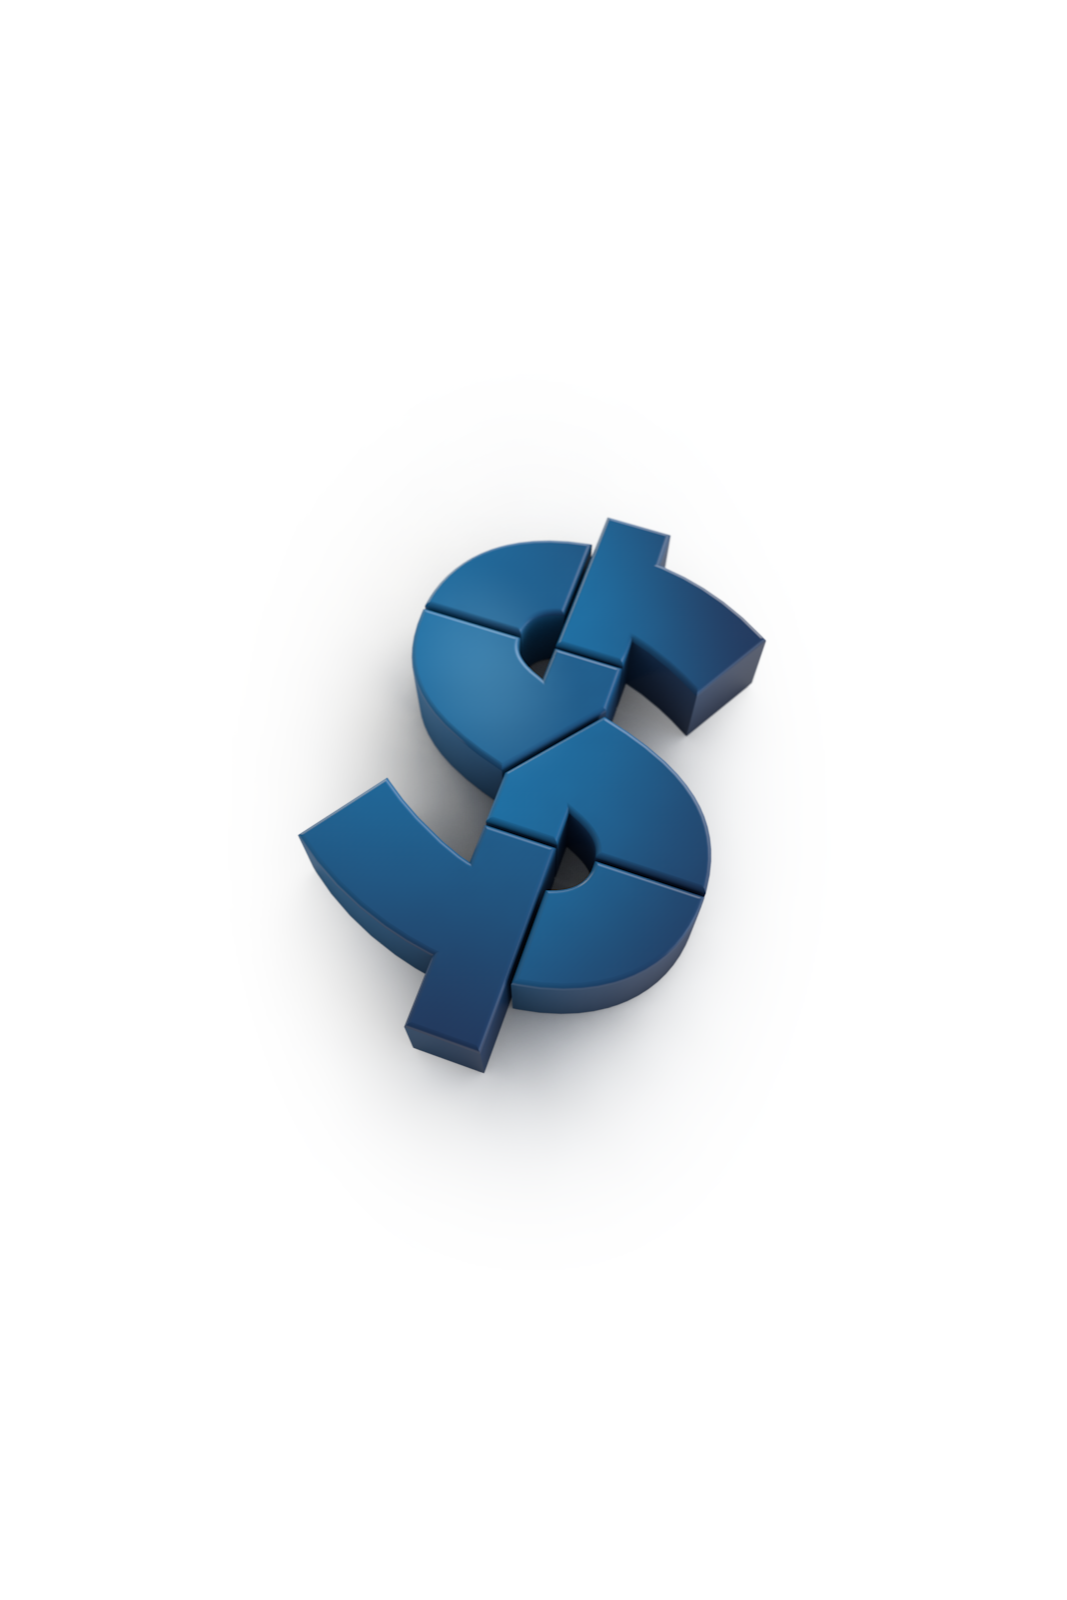
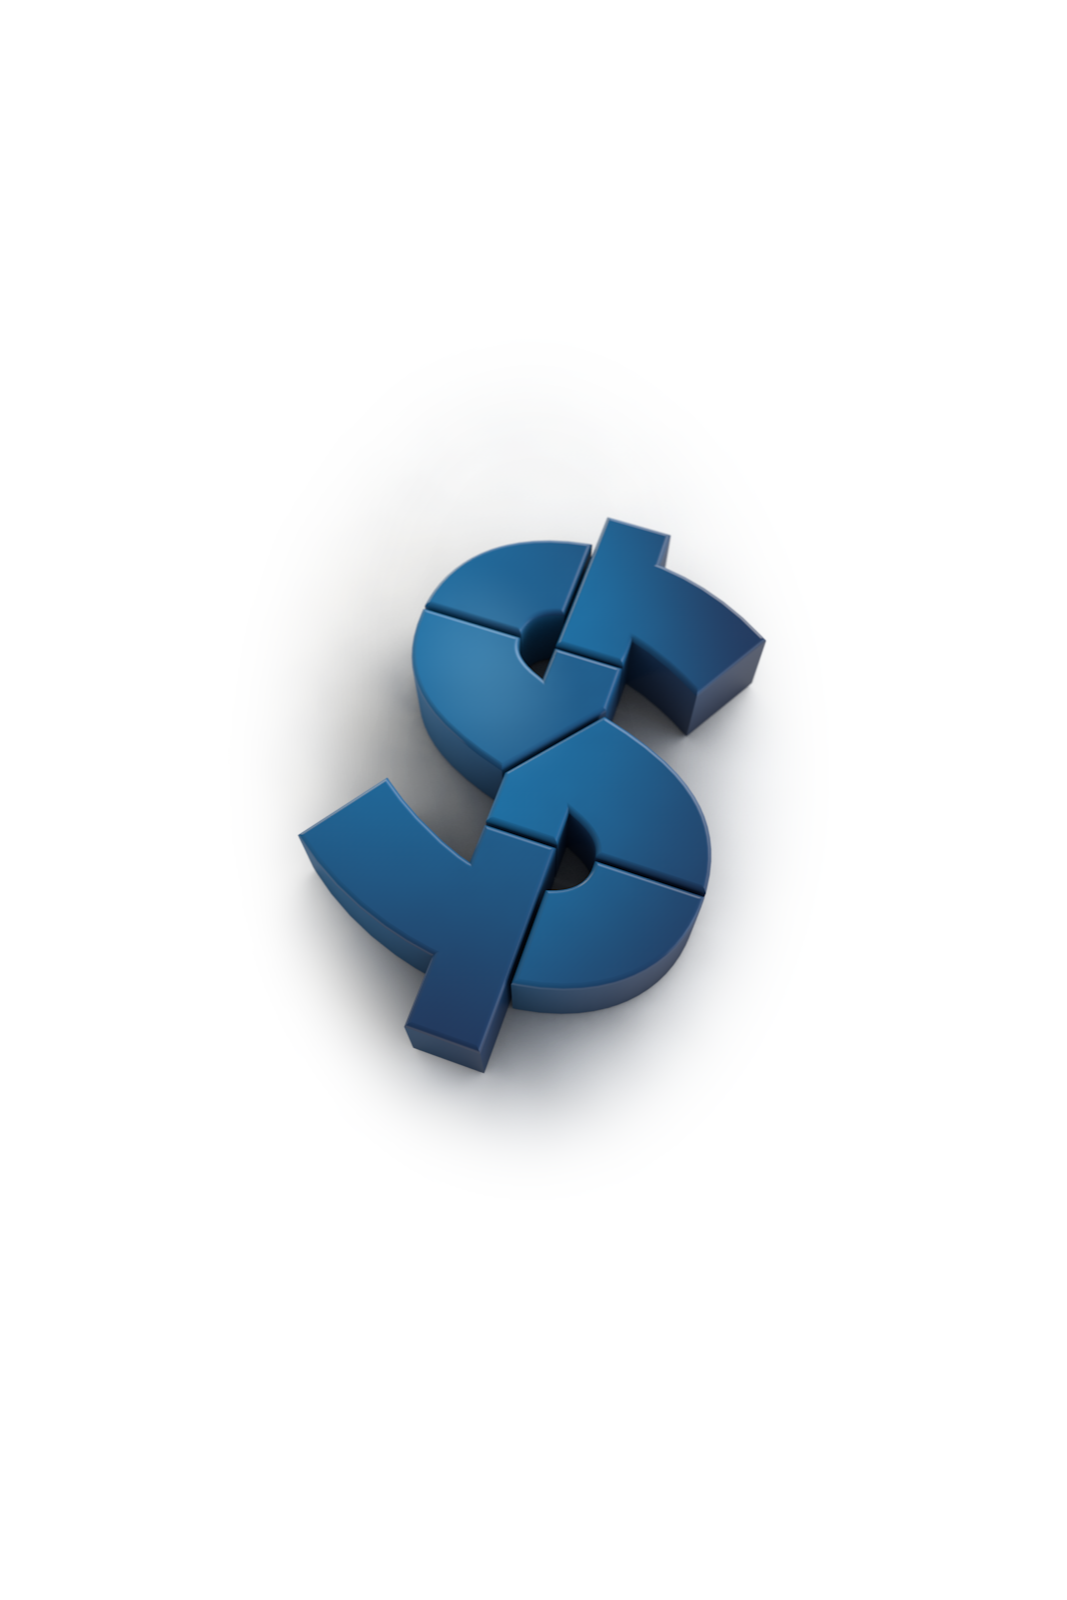
Update background image and base background position

Changed region(s): [[0.2784, 0.4062, 0.6495, 0.6875], [0.5567, 0.4062, 0.7113, 0.5938]]

diff --git a/assets/js/main.js b/assets/js/main.js
@@ -7,6 +7,7 @@ var HelloYesDollar = (function ($) {
         classes: {
             active:   'HYD__active',
             back:     'HYD__back',
+            base:     'HYD__base',
             future:   'HYD__future',
             hidden:   'HYD__hidden',
             layer:    'HYD__layer',
@@ -41,12 +42,14 @@ var HelloYesDollar = (function ($) {
         init: false,
         large: {
             size: 1067,
+            baseX: -233,
             x: -267,
             y: -400,
             duration: 1500
         },
         small: {
             size: 780,
+            baseX: -90,
             x: -123,
             y: -374,
             duration: 1000
@@ -156,7 +159,8 @@ var HelloYesDollar = (function ($) {
                 q('.' + config.classes.map + ', .' + config.classes.text).remove();
                 q('.' + config.classes.future).remove();
                 setTimeout(function() {
-                    q('.' + config.classes.layer).animateBackground(transition.large.size, transition.large.x, transition.large.y, transition.large.duration, transition.easing);
+                    q('.' + config.classes.base).animateBackground(transition.large.size, transition.large.baseX, transition.large.y, transition.large.duration, transition.easing);
+                    q('.' + config.classes.section).animateBackground(transition.large.size, transition.large.x, transition.large.y, transition.large.duration, transition.easing);
                 }, 100);
             });
         }
@@ -177,7 +181,8 @@ var HelloYesDollar = (function ($) {
         q('[name="' + config.maps.large + '"]').remove();
         transition.init = true;
 
-        q('.' + config.classes.layer)
+        q('.' + config.classes.base).animateBackground(transition.small.size, transition.small.baseX, transition.small.y, transition.small.duration, transition.easing);
+        q('.' + config.classes.section)
             .animateBackground(transition.small.size, transition.small.x, transition.small.y, transition.small.duration, transition.easing, function () {
                 q('[name="' + config.maps.small + '"]').removeClass(config.classes.hidden);
                 q('.' + config.classes.mapImage).attr('usemap', '#' + config.maps.small);

diff --git a/index.html b/index.html
@@ -14,7 +14,7 @@
 </head>
 <body>
     <div id="HYD" class="HYD__container HYD__hidden">
-        <div class="HYD_0 HYD__layer">
+        <div class="HYD_0 HYD__layer HYD__base">
             <div class="HYD_1 HYD__section HYD__layer HYD__hidden"></div>
             <div class="HYD_1--HYD__future HYD__future HYD__section HYD__layer HYD__hidden"></div>
             <div class="HYD_2 HYD__section HYD__layer HYD__hidden"></div>

diff --git a/assets/css/main.css b/assets/css/main.css
@@ -63,6 +63,11 @@ body:after {
     background-position: -267px -400px; /* Half of dimensions */
 }
 
+.HYD__base {
+    width: 600px;
+    background-position: -233px -400px;
+}
+
 .HYD__section {
     position: absolute;
     top: 0;
